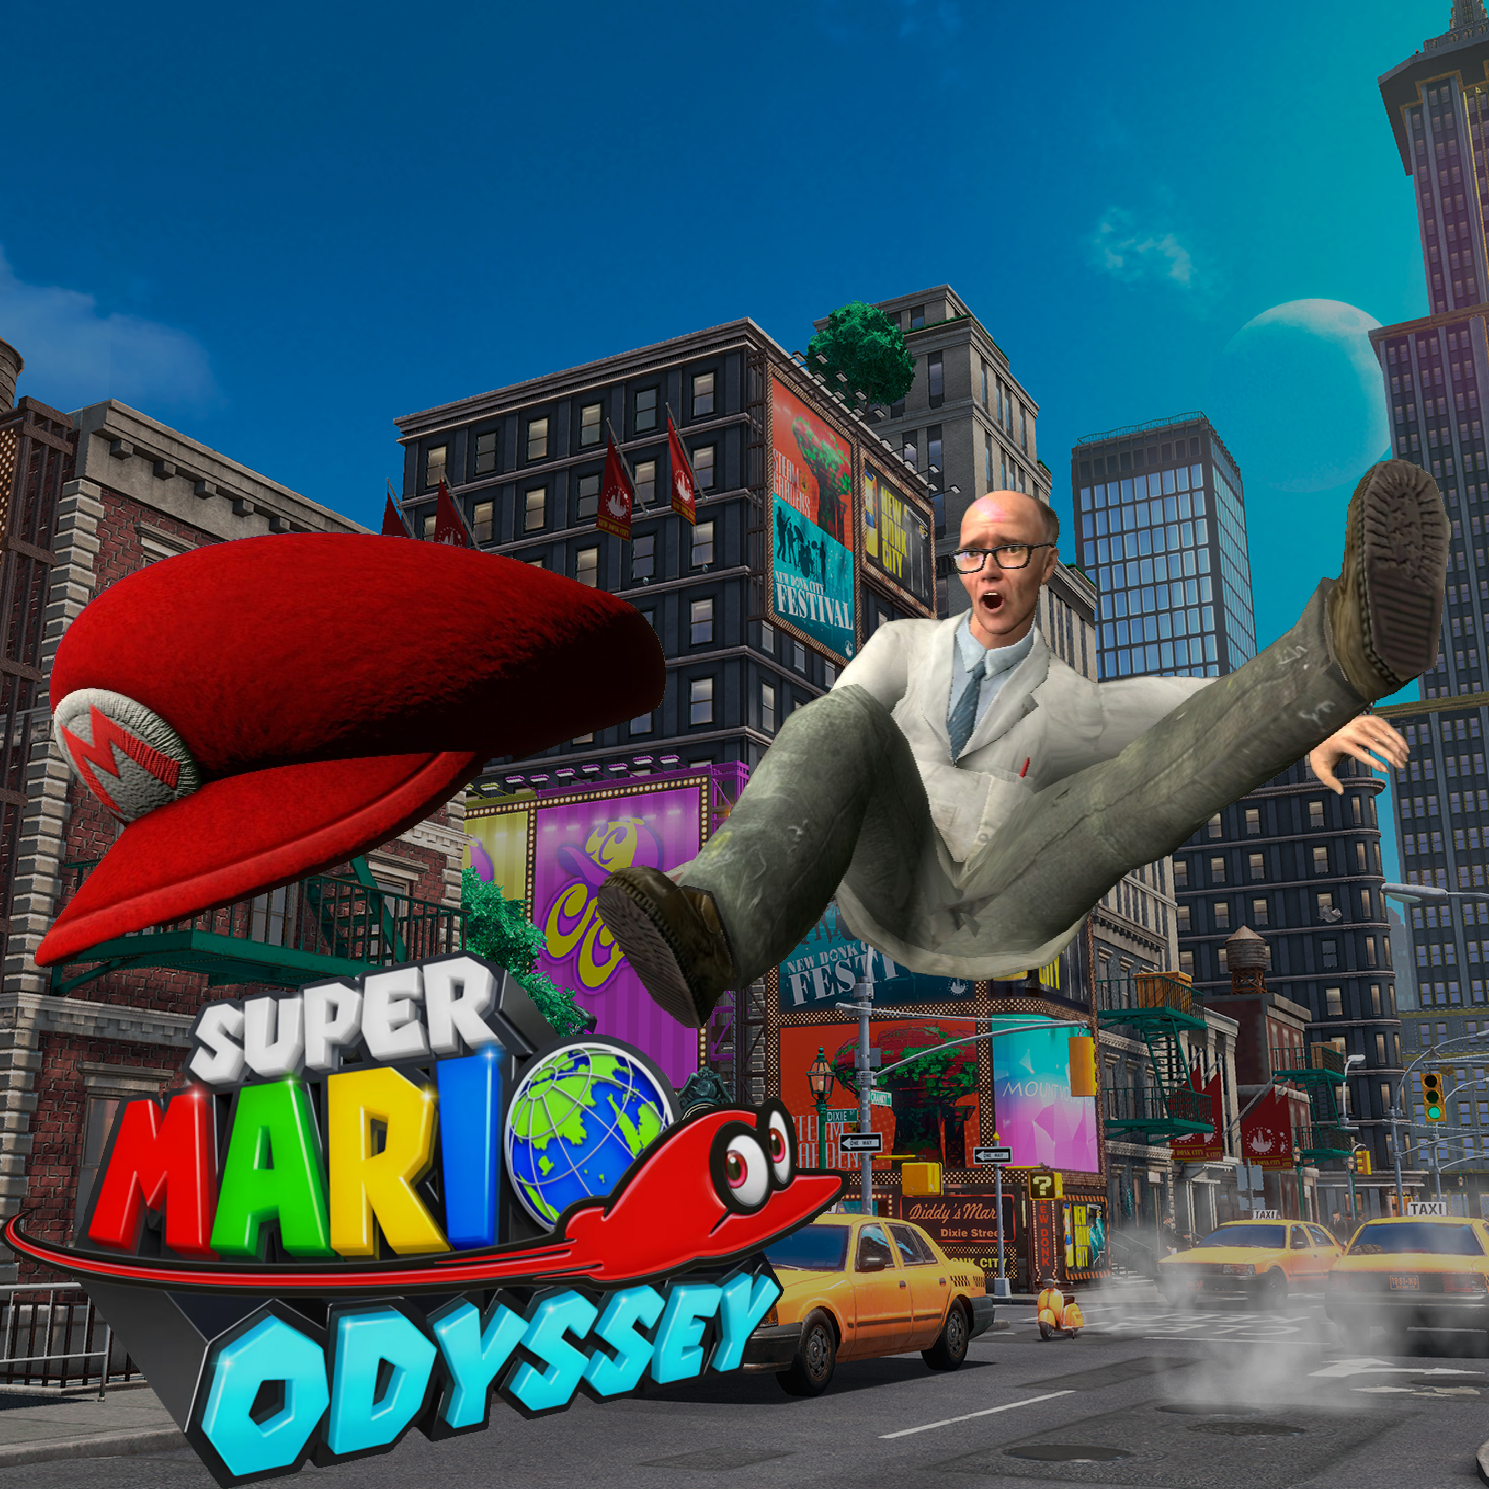
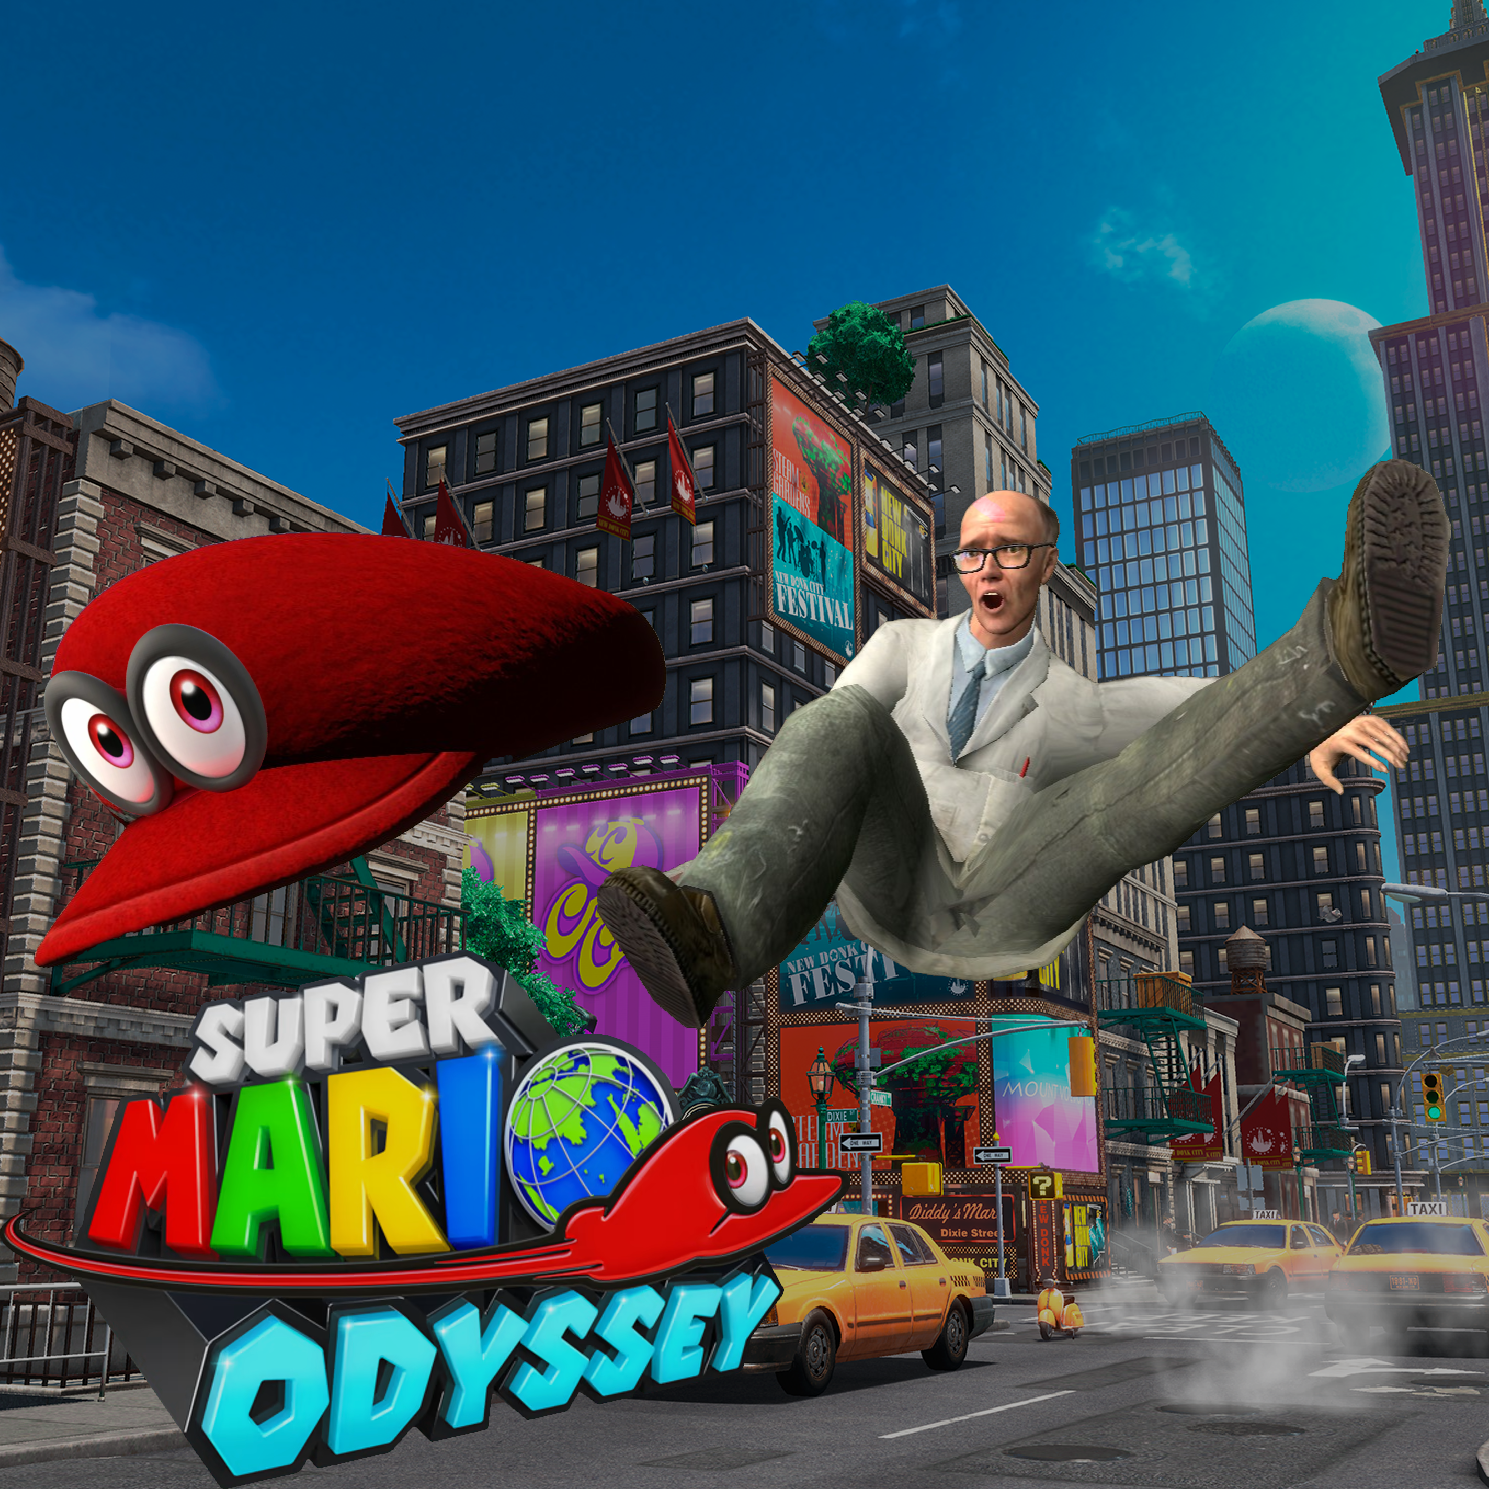
readme and workshop description

Changed region(s): [[0.0309, 0.4016, 0.1854, 0.5561]]

diff --git a/README.md b/README.md
@@ -1,0 +1,31 @@
+### A movement SWEP that recreates the movement from Super Mario Odyssey
+
+---
+
+This is a port of [PortalRunner's](https://youtu.be/3KIy7M2-Ue4) Portal 2 mod with a couple of addition like audio and some Gmod related bug fixes.
+
+To enable the movement get the weapon from the weapons other tab. The SWEP is called "odyssey movement toggle" and you can toggle it on and off with left click.
+
+Controls:
+* **Crouch/Duck(Ctrl)** - Crouch
+* **Use(e)** - Throw cappy
+* **Jump(Space)** - Jump
+
+
+These controls are similar to Super Mario Odyssey with **Jump** being **B/A**, **Use** being **Y** and **Crouch** being **ZL**
+
+Movelist:
+* Jump
+* Long jump - Run then **Crouch** + **Jump**
+* Wall jump - While in the air **Jump** while facing a wall
+* Roll - While holding **Crouch**, spam **Use** and you start rolling
+* Ground Pound - While in the air **Crouch**
+* Ground Pound Jump - **Ground Pound** then jump when you hit the floor and you jump higher than normal
+* Dive - **Ground Pound** then **Use** to dive out of it
+* Backflip - While standing still **Crouch** + **Jump**
+* Bonk - **Dive** into a wall (Not really a move)
+
+
+Cappy model and Mario sounds belong to Nintendo©
+
+Open to feedback and please report bugs
